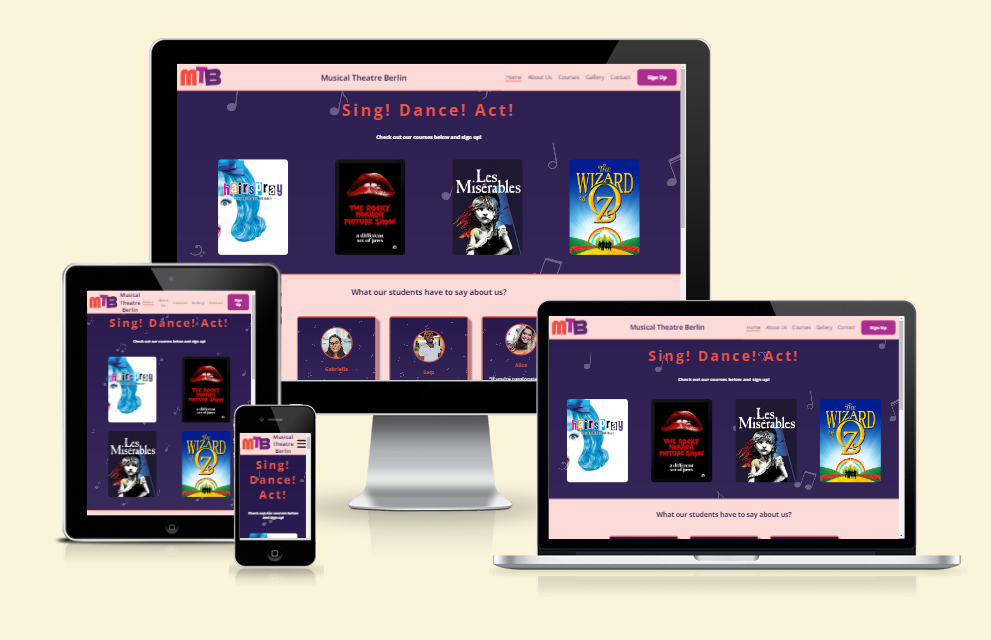
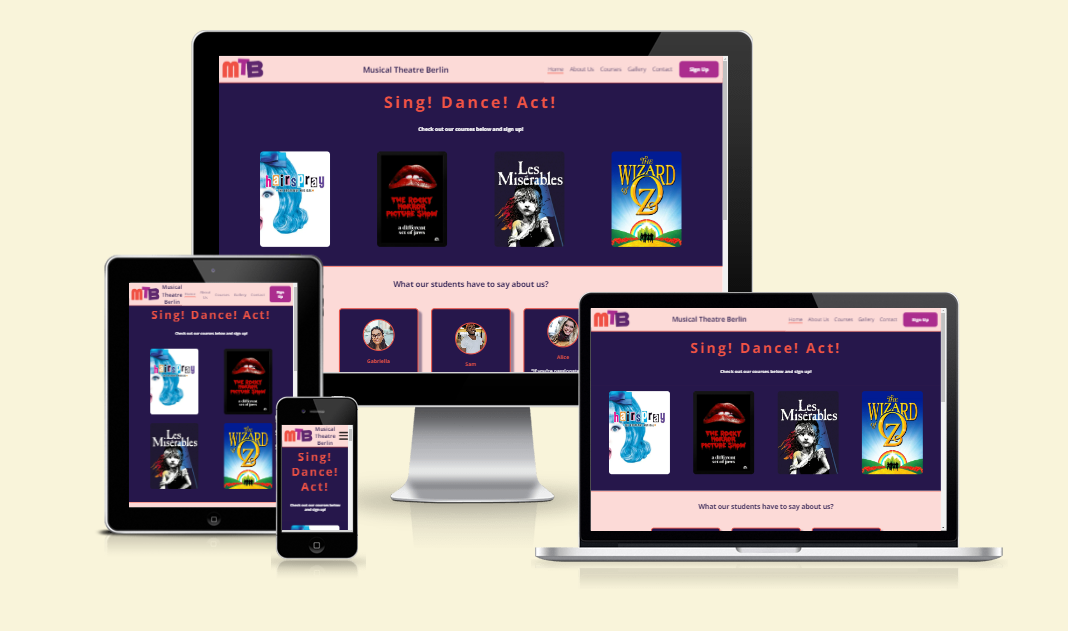
Add menu

Changed region(s): [[0.0605, 0.0301, 0.9687, 0.9334], [0.4844, 0.8732, 0.5146, 0.9033]]

diff --git a/README.md b/README.md
@@ -10,6 +10,32 @@ Visit the deployed website here → [Musical Theater Berlin](https://enniovilla.
 
 ## Content
 
+* [User Experience](#user-experience-ux)
+    * [User Stories](#user-stories)
+* [Design](#design)
+    * [Website Structure](#website-structure)
+    * [Wireframes](#wireframes)
+    * [Color Scheme](#color-scheme)
+    * [Typography](#typography)
+* [Features and Future Features](#features-and-future-features)
+    * [Features](#features)
+    * [Future Features](#future-features)
+* [Technologies Used](#technologies-used)
+* [Deployment, Fork and Clone](#deployment-fork-and-clone)
+    * [Deployment](#deployment)
+    * [Fork](#how-to-fork)
+    * [Clone](#how-to-clone)
+* [Testing](#testing)
+    * [Testing User Stories](#testing-user-stories)
+    * [Automated Testing](#automated-testing)
+    * [Manual Testing](#manual-testing)
+* [Bugs](#bugs)
+    * [Known Bugs](#known-bugs)
+* [Credits](#credits)
+* [Content](#content)
+* [Media](#media)
+* [Acknowledgments](#acknowledgments)
+
 ## User Experience (UX)
 
 ### User Stories
@@ -171,24 +197,6 @@ One feature I would like to have in the future is a carousel with images of cour
 
 ## Testing
 
-### Automated Testing
-
-#### W3C Validator
-[W3C](https://validator.w3.org/) checked the HTML of the 6 pages and they passed the validation. A warning message shows up in all validations due to importing the font from Google Fonts.<br>The full results of the validations are shown below.
-- [Home page](documentation/testing/index.pdf)
-- [About Us page](documentation/testing/about-us.pdf)
-- [Courses page](documentation/testing/courses.pdf)
-- [Gallery page](documentation/testing/gallery.pdf)
-- [Contact page](documentation/testing/contact.pdf)
-- [Sign Up page](documentation/testing/signup.pdf)
-
-#### CSS Validator
-The CSS was validated by [W3C Jigsaw](https://jigsaw.w3.org/css-validator/) and passed the test. To see the full result, click on the name below.
-- [CSS](documentation/testing/css-validation.pdf)
-
-#### Lighthouse
-
-
 ### Testing User Stories
 
 - First time visitors
@@ -238,6 +246,23 @@ I tested the website in different browsers.
 | Microsoft Edge | The website is responsive |
 | Mozilla Firefox | The website is responsive |
 | Opera | The website is responsive |
+
+### Automated Testing
+
+#### W3C Validator
+[W3C](https://validator.w3.org/) checked the HTML of the 6 pages and they passed the validation. A warning message shows up in all validations due to importing the font from Google Fonts.<br>The full results of the validations are shown below.
+- [Home page](documentation/testing/index.pdf)
+- [About Us page](documentation/testing/about-us.pdf)
+- [Courses page](documentation/testing/courses.pdf)
+- [Gallery page](documentation/testing/gallery.pdf)
+- [Contact page](documentation/testing/contact.pdf)
+- [Sign Up page](documentation/testing/signup.pdf)
+
+#### CSS Validator
+The CSS was validated by [W3C Jigsaw](https://jigsaw.w3.org/css-validator/) and passed the test. To see the full result, click on the name below.
+- [CSS](documentation/testing/css-validation.pdf)
+
+#### Lighthouse
 
 ## Bugs
 
